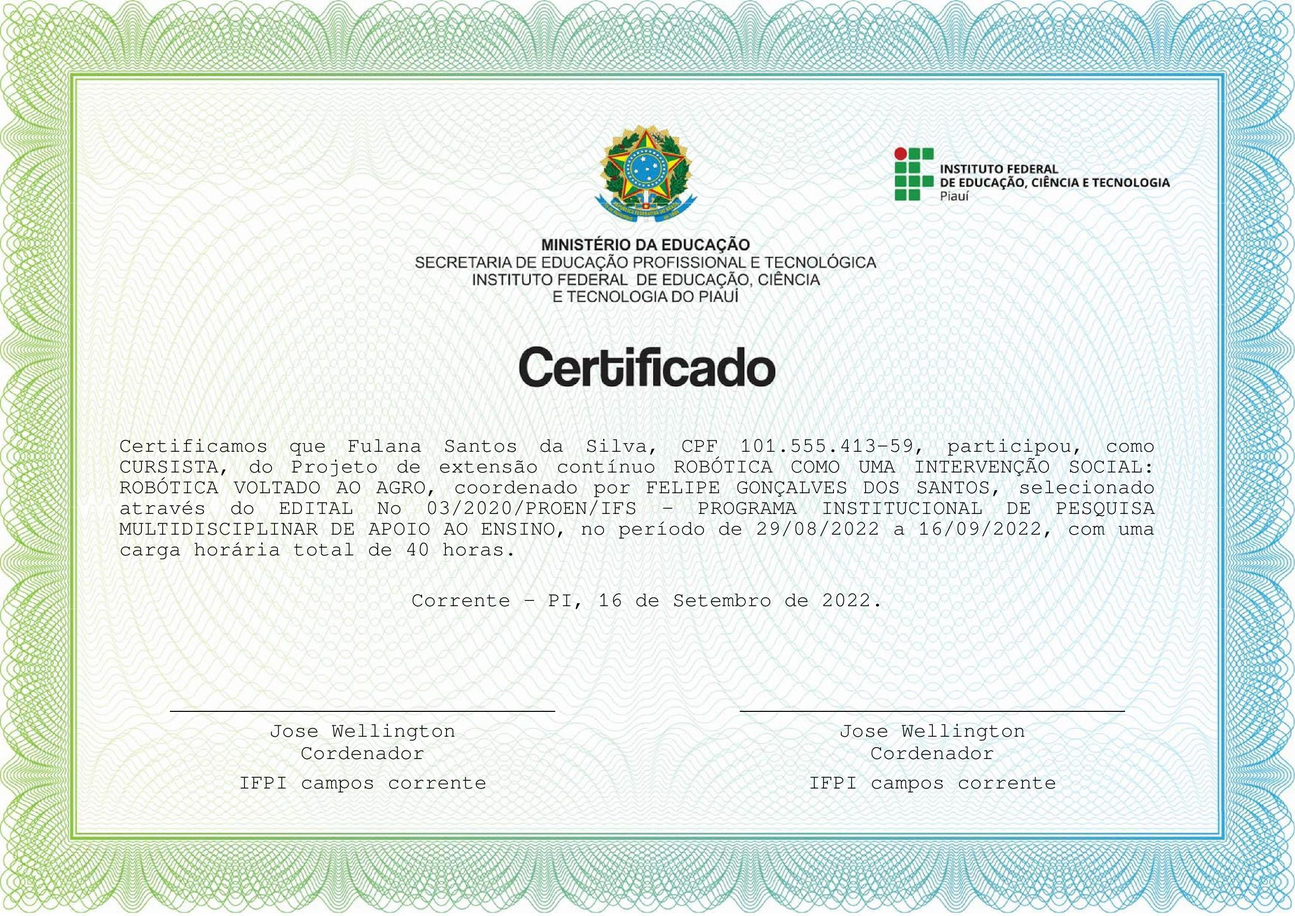
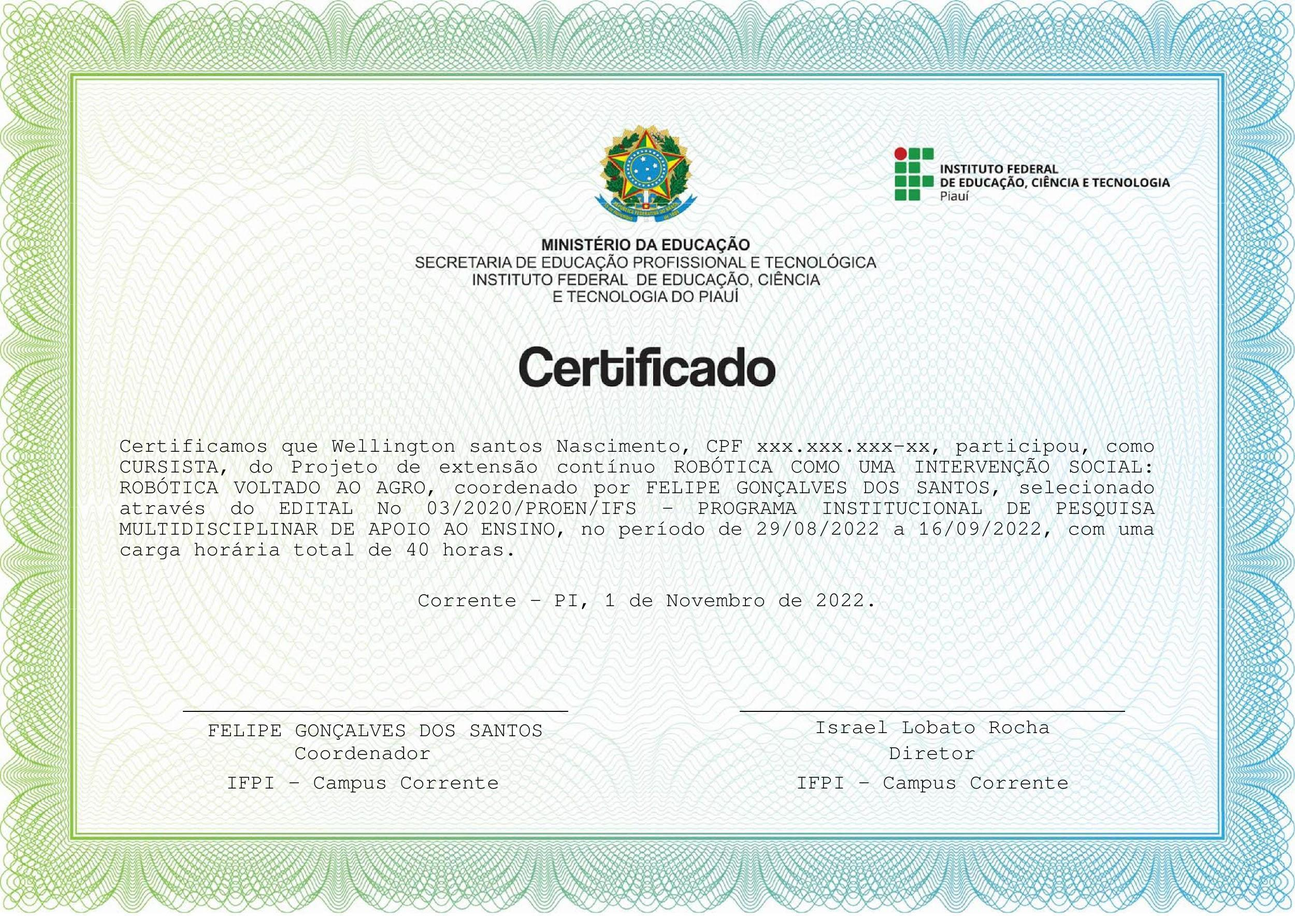
class curso

diff --git a/certificado.py b/certificado.py
@@ -1,3 +1,5 @@
+import os
+
 from PIL import Image, ImageDraw, ImageFont
 import PIL
 from certicado_config import CertificadoConfig
@@ -7,7 +9,11 @@ class Certificado(CertificadoConfig):
     line_signature = "_______________________________"
 
     def __init__(
-        self, filename="static/img6.jpg", mode="RGBA", background=(0, 0, 0, 0), encoding="utf8"
+        self,
+        filename="static/img6.jpg",
+        mode="RGBA",
+        background=(0, 0, 0, 0),
+        encoding="utf8",
     ):
         super().__init__(mode, background, encoding)
         self.filename = filename
@@ -18,8 +24,11 @@ class Certificado(CertificadoConfig):
         self.draw = ImageDraw.Draw(self.image)
         self.encoding = encoding
 
-    def save(self, filename=None):
-        self.image.save(f'certificado/{filename}.jpg')
+    def save_image(self, filename=None):
+        self.image.save(f"certificado/{filename}.jpg")
+
+    def save_pdf(self, filename=None):
+        self.image.save(f"certificado/{filename}.pdf")
 
     def show(self):
         self.image.show()
@@ -27,19 +36,28 @@ class Certificado(CertificadoConfig):
     def get_size(self):
         return self.image.size
 
-    def create_main_text(self, text, font_size=40, font="static/freemomo/FreeMono.ttf", stronk=0):
+    def create_main_text(
+        self, name, curso, carga, date_start, date_end, edital, coordenador, cpf
+    ):
+        text = f"""Certificamos que {name}, CPF {cpf}, participou, como CURSISTA, do Projeto de
+extensão contínuo {curso},
+coordenado por {coordenador}, selecionado através do {edital}, no período de
+{date_start} a {date_end}, com uma carga horária total de {carga} horas."""
+
         self.write_text_box(
             (230, 800),
             text,
             box_width=2000,
-            font_filename=font,
-            font_size=font_size,
+            font_filename="static/freemomo/FreeMono.ttf",
+            font_size=40,
             color=self.background,
             place="justify",
         )
 
     def create_date_city(self, text):
-        x, y = self.get_text_size(font="static/freemomo/FreeMono.ttf", font_size=40, text=text)
+        x, y = self.get_text_size(
+            font="static/freemomo/FreeMono.ttf", font_size=40, text=text
+        )
         pos = 2500 // 2
         k = x // 2
         pos = pos - k
@@ -51,29 +69,96 @@ class Certificado(CertificadoConfig):
             color=self.background,
             text=text,
         )
-    
+
     def left_signature(self, nome, cargo, instituicao):
-        self.write_text_box((400, 1300), box_width=600, font_filename="static/freemomo/FreeMono.ttf", font_size=40, color=self.background, text=self.line_signature, place='center')
-        self.write_text_box((400, 1350), box_width=600, font_filename="static/freemomo/FreeMono.ttf", font_size=40, color=self.background, text=nome, place='center')
-        self.write_text_box((400, 1400), box_width=600, font_filename="static/freemomo/FreeMono.ttf", font_size=40, color=self.background, text=cargo, place='center')
-        self.write_text_box((400, 1450), box_width=600, font_filename="static/freemomo/FreeMono.ttf", font_size=40, color=self.background, text=instituicao, place='center')
+        self.write_text_box(
+            (400, 1300),
+            box_width=650,
+            font_filename="static/freemomo/FreeMono.ttf",
+            font_size=40,
+            color=self.background,
+            text=self.line_signature,
+            place="center",
+        )
+        self.write_text_box(
+            (400, 1350),
+            box_width=650,
+            font_filename="static/freemomo/FreeMono.ttf",
+            font_size=40,
+            color=self.background,
+            text=nome,
+            place="center",
+        )
+        self.write_text_box(
+            (400, 1400),
+            box_width=600,
+            font_filename="static/freemomo/FreeMono.ttf",
+            font_size=40,
+            color=self.background,
+            text=cargo,
+            place="center",
+        )
+        self.write_text_box(
+            (400, 1450),
+            box_width=600,
+            font_filename="static/freemomo/FreeMono.ttf",
+            font_size=40,
+            color=self.background,
+            text=instituicao,
+            place="center",
+        )
 
     def right_signature(self, nome, cargo, instituicao):
-        self.write_text_box((1500, 1300), box_width=600, font_filename="static/freemomo/FreeMono.ttf", font_size=40, color=self.background, text=self.line_signature, place='center')
-        self.write_text_box((1500, 1350), box_width=600, font_filename="static/freemomo/FreeMono.ttf", font_size=40, color=self.background, text=nome, place='center')
-        self.write_text_box((1500, 1400), box_width=600, font_filename="static/freemomo/FreeMono.ttf", font_size=40, color=self.background, text=cargo, place='center')
-        self.write_text_box((1500, 1450), box_width=600, font_filename="static/freemomo/FreeMono.ttf", font_size=40, color=self.background, text=instituicao, place='center')
+        self.write_text_box(
+            (1500, 1300),
+            box_width=600,
+            font_filename="static/freemomo/FreeMono.ttf",
+            font_size=40,
+            color=self.background,
+            text=self.line_signature,
+            place="center",
+        )
+        self.write_text_box(
+            (1500, 1350),
+            box_width=600,
+            font_filename="static/freemomo/FreeMono.ttf",
+            font_size=40,
+            color=self.background,
+            text=nome,
+            place="center",
+        )
+        self.write_text_box(
+            (1500, 1400),
+            box_width=600,
+            font_filename="static/freemomo/FreeMono.ttf",
+            font_size=40,
+            color=self.background,
+            text=cargo,
+            place="center",
+        )
+        self.write_text_box(
+            (1500, 1450),
+            box_width=600,
+            font_filename="static/freemomo/FreeMono.ttf",
+            font_size=40,
+            color=self.background,
+            text=instituicao,
+            place="center",
+        )
 
 
-if __name__ == '__main__':
+if __name__ == "__main__":
     t = Certificado()
-    t.create_main_text("""Certificamos que Fulana Santos da Silva, CPF 101.555.413-59, participou, como CURSISTA, do Projeto de
+    t.create_main_text(
+        """Certificamos que Fulana Santos da Silva, CPF 101.555.413-59, participou, como CURSISTA, do Projeto de
 extensão contínuo ROBÓTICA COMO UMA INTERVENÇÃO SOCIAL: ROBÓTICA VOLTADO AO AGRO,
 coordenado por FELIPE GONÇALVES DOS SANTOS, selecionado através do EDITAL No 03/2020/PROEN/IFS -
 PROGRAMA INSTITUCIONAL DE PESQUISA MULTIDISCIPLINAR DE APOIO AO ENSINO, no período de
-29/08/2022 a 16/09/2022, com uma carga horária total de 40 horas.""", 40)
-    t.create_date_city('Corrente - PI, 16 de Setembro de 2022.')
-    t.right_signature('Jose Wellington', 'Cordenador', 'IFPI campos corrente')
-    t.left_signature('Jose Wellington', 'Cordenador', 'IFPI campos corrente')
+29/08/2022 a 16/09/2022, com uma carga horária total de 40 horas.""",
+        40,
+    )
+    t.create_date_city("Corrente - PI, 16 de Setembro de 2022.")
+    t.right_signature("Jose Wellington", "Cordenador", "IFPI campos corrente")
+    t.left_signature("Jose Wellington", "Cordenador", "IFPI campos corrente")
     t.show()
-    t.save('wellington')
+    t.save("wellington")

diff --git a/curso.py b/curso.py
@@ -1,0 +1,71 @@
+from datetime import datetime
+
+from certificado import Certificado
+
+
+class Curso:
+
+    messes = [
+    'Janeiro',
+    'Fevereiro',
+    'Março',
+    'Abril',
+    'Maio',
+    'Junho',
+    'Julho',
+    'Agosto',
+    'Setembro',
+    'Outubro',
+    'Novembro',
+    'Dezembro'
+    ]
+
+    data_atual = datetime.now()
+
+    def __init__(self, curso, carga, data_start, date_end, edital, coordenado) -> None:
+        self.curso = curso
+        self.carga = carga
+        self.data_start = data_start
+        self.date_end = date_end
+        self.edital = edital
+        self.coordenado = coordenado
+        self.path_file_csv = None
+        self.certificados = []
+
+    def gerar_certificados(self, cidade, diretor, campos):
+        cert = Certificado()
+
+        cert.create_main_text(
+            curso=self.curso,
+            name="Wellington santos Nascimento",
+            carga=self.carga,
+            date_start=self.data_start,
+            date_end=self.date_end,
+            edital=self.edital,
+            coordenador=self.coordenado,
+            cpf="xxx.xxx.xxx-xx",
+        )
+        dia = self.data_atual.day
+        mes = self.data_atual.month
+        ano = self.data_atual.year
+
+        city_date = f'{cidade}, {dia} de {self.messes[mes-1]} de {ano}.'
+        cert.create_date_city(city_date)
+
+        cert.left_signature(self.coordenado, 'Coordenador', campos)
+        cert.right_signature(diretor, 'Diretor', campos)
+
+        self.certificados.append(cert)
+        cert.save_image("wellington")
+
+
+if __name__ == '__main__':
+    c = Curso(
+        curso="ROBÓTICA COMO UMA INTERVENÇÃO SOCIAL: ROBÓTICA VOLTADO AO AGRO",
+        carga=40,
+        data_start="29/08/2022",
+        date_end="16/09/2022",
+        edital="EDITAL No 03/2020/PROEN/IFS - PROGRAMA INSTITUCIONAL DE PESQUISA MULTIDISCIPLINAR DE APOIO AO ENSINO",
+        coordenado="FELIPE GONÇALVES DOS SANTOS",
+    )
+    c.gerar_certificados('Corrente - PI', 'Israel Lobato Rocha', 'IFPI - Campus Corrente')

diff --git a/main.py b/main.py
@@ -13,4 +13,4 @@ t.create_date_city('Corrente - PI, 16 de Setembro de 2022.')
 t.right_signature('Jose Wellington', 'Cordenador', 'IFPI campos corrente')
 t.left_signature('Jose Wellington', 'Cordenador', 'IFPI campos corrente')
 t.show()
-t.save('wellington')
+t.save_image('wellington')

diff --git a/certicado_config.py b/certicado_config.py
@@ -5,7 +5,7 @@ import PIL
 class CertificadoConfig(object):
 
     def __init__(self, mode="RGBA", background=(0, 0, 0, 0), encoding="utf8"):
-        self.mode = (mode,)
+        self.mode = mode,
         self.background = background
         self.encoding = encoding
 
